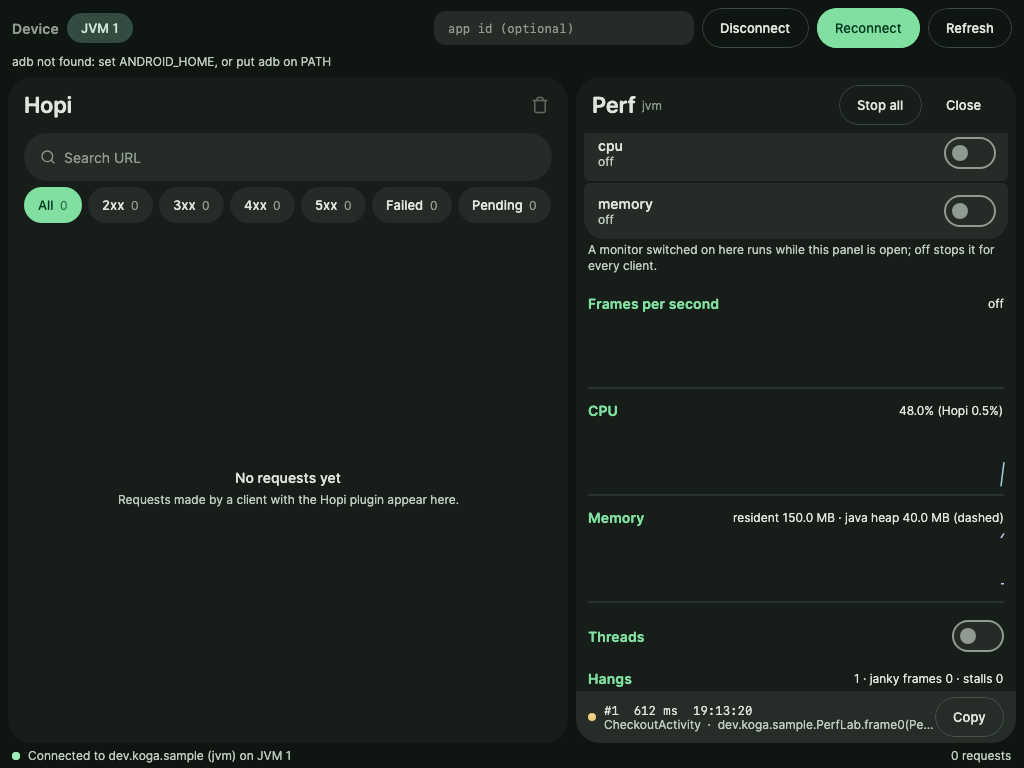
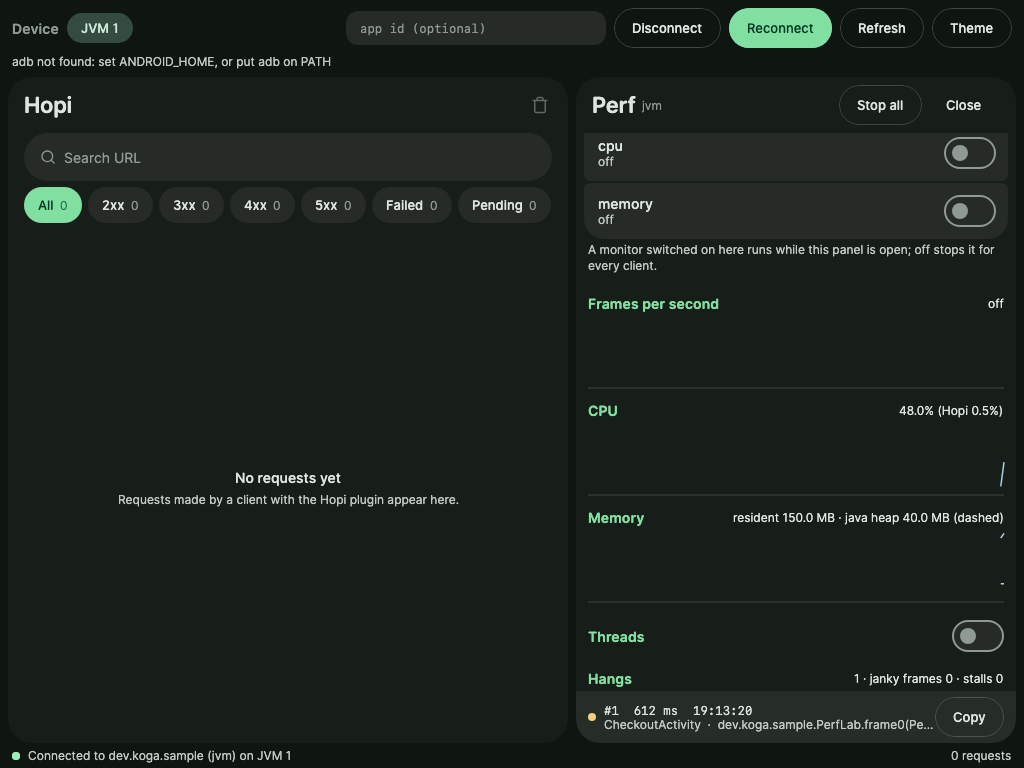
docs: README with today's viewer, whole bodies and the local-only bridge
- New screenshots from the desktop tests: a JSON response in colors, a body
  opened full size with its search (a new ViewerUiTest that takes both), and
  the Rules and Perf panels again.
- Features: the viewer's JSON colors, full-size body and search, theme;
  whole bodies while the viewer is attached; the CLI's agent guardrails
  (captured content is data, --allow-other-origin); local only, every bridge
  connection presenting a per-launch secret.
- "See it": the keys that reach the body viewer and the panels.

Claude-Session: https://claude.ai/code/session_01JN5rq3ZojmoggmPntv5e4y

Changed region(s): [[0.625, 0.0, 0.9688, 0.0625], [0.3438, 0.0312, 0.5625, 0.0625]]

diff --git a/hopi-desktop/src/test/kotlin/dev/koga/hopi/desktop/ViewerUiTest.kt b/hopi-desktop/src/test/kotlin/dev/koga/hopi/desktop/ViewerUiTest.kt
@@ -6,6 +6,9 @@ import androidx.compose.foundation.layout.fillMaxSize
 import androidx.compose.ui.Modifier
 import androidx.compose.ui.graphics.toAwtImage
 import androidx.compose.ui.input.key.Key
+import androidx.compose.ui.test.onNodeWithContentDescription
+import androidx.compose.ui.test.hasContentDescription
+import androidx.compose.ui.test.isRoot
 import androidx.compose.ui.test.ComposeUiTest
 import androidx.compose.ui.test.ExperimentalTestApi
 import androidx.compose.ui.test.KeyInjectionScope
@@ -122,6 +125,30 @@ class ViewerUiTest {
     }
 
     @Test
+    fun aJsonResponseShowsInColorsAndOpensFullSizeWithASearch() = runComposeUiTest {
+        val app = FakeApp(root.resolve("5151")).also { closeables += it }
+        val orders = (1..8).joinToString(",") { n -> """{"id":${1000 + n},"total":${n * 12.5},"status":"${if (n % 3 == 0) "refunded" else "paid"}","gift":${n % 2 == 0}}""" }
+        val json = """{"user":{"id":42,"name":"Ada Lovelace","email":"ada@example.com","verified":true,"roles":["admin","editor"],"manager":null},"orders":[$orders],"next":"/users/42/orders?page=2"}"""
+        app.add { completeTx(it, url = "https://api.example.com/users/42", responseBody = textBody(json)) }
+        viewer()
+        waitForText("JVM 5151")
+        onNodeWithTag(ViewerTags.APP_FIELD).performTextInput(APP)
+        onNodeWithTag(ViewerTags.CONNECT).performClick()
+        waitForText("/users/42")
+        onNodeWithText("/users/42", substring = true).performClick()
+        waitForText("Response")
+        onNodeWithText("Response").performClick()
+        waitForText("Ada Lovelace")
+        screenshot("viewer-response.png")
+
+        onNodeWithContentDescription("Expand body").performClick()
+        waitUntil(timeoutMillis = 15_000) { onAllNodes(hasContentDescription("Search in body")).fetchSemanticsNodes().isNotEmpty() }
+        onNodeWithContentDescription("Search in body").performTextInput("refunded")
+        waitForText("1 of 2")
+        screenshotAll("viewer-body-search.png")
+    }
+
+    @Test
     fun theStatusBarFollowsTheAppStoppingAndStartingAgain() = runComposeUiTest {
         val directory = root.resolve("7")
         val first = FakeApp(directory)
@@ -160,6 +187,16 @@ class ViewerUiTest {
         assertFalse(connected.sameAs(updated.copy(app = "dev.koga.other")))
         assertFalse(connected.sameAs(Target(AndroidDevice("emulator-5556", "device", "Pixel", emptyList()), "dev.koga.sample")))
         assertFalse(connected.sameAs(null))
+    }
+
+    /** [screenshot] with every root drawn over the window's (a dialog is a root of its own). */
+    private fun ComposeUiTest.screenshotAll(name: String) {
+        val directory = System.getProperty("hopi.desktop.screenshots") ?: return
+        val roots = onAllNodes(isRoot()).fetchSemanticsNodes().indices.map { onAllNodes(isRoot())[it].captureToImage().toAwtImage() }
+        val image = java.awt.image.BufferedImage(roots[0].width, roots[0].height, java.awt.image.BufferedImage.TYPE_INT_ARGB)
+        image.createGraphics().apply { roots.forEach { drawImage(it, 0, 0, null) }; dispose() }
+        Files.createDirectories(Paths.get(directory))
+        ImageIO.write(image, "png", Paths.get(directory, name).toFile())
     }
 
     /** Writes the composed window content where the build's test task says (build/reports/screenshots). */

diff --git a/README.md b/README.md
@@ -12,11 +12,11 @@ viewer and a CLI.
 > Hopi is experimental, and it is developed entirely with AI (Claude Code). Its APIs can change
 > between versions, and it is for debug builds only.
 
-![The desktop viewer: the request list as tonal cards, the selected GET and its detail with the Overview, Request and Response tabs](docs/images/viewer.png)
+![The desktop viewer: the request list, and the selected GET's response with its headers (Set-Cookie redacted) and its JSON body in colors](docs/images/viewer.png)
 
-| Rules | Performance |
-| --- | --- |
-| ![The Rules panel: two rules with their switches, Update and Remove](docs/images/rules.png) | ![The Perf panel: the monitors' switches and the frames, CPU and memory charts](docs/images/perf.png) |
+| Full-size body and search | Rules | Performance |
+| --- | --- | --- |
+| ![A JSON body opened over the whole window, with a search marking its first of two matches](docs/images/body-search.png) | ![The Rules panel: two rules with their switches, Update and Remove](docs/images/rules.png) | ![The Perf panel: the monitors' switches and the frames, CPU and memory charts](docs/images/perf.png) |
 
 ## Features
 
@@ -27,16 +27,24 @@ viewer and a CLI.
   or the response, in the app's memory for the session only and never weakening its TLS or pinning.
 - **Performance monitors**: frames, hangs with the main thread's stack, CPU and memory, each off
   until started.
-- **Desktop viewer** (Compose Desktop, macOS first): requests and their detail side by side, Rules
-  and Perf panels, cURL, HAR and NDJSON export.
+- **Desktop viewer** (Compose Desktop, macOS first): requests and their detail side by side, JSON
+  bodies in colors, any body opened full size with a search, Rules and Perf panels, cURL, HAR and
+  NDJSON export, and a choice of accent color and light or dark.
+- **Whole bodies, as a proxy shows them**: while the viewer is attached the app keeps bodies whole
+  (up to an eighth of its heap) and the viewer fetches each one as its request ends; the app then
+  cuts its own copy back to its cap (256 KB), so its memory stays where it was.
 - **CLI**, `hopi`: list, tail, get, cURL, rules and monitors from a terminal; its `--json` output is
-  a stable contract for AI coding agents.
+  a stable contract for AI coding agents, which treat captured content as data, and a rule that
+  sends requests to another host needs `--allow-other-origin`, which an agent adds only once its
+  user agreed.
 - **Log stream**: one NDJSON line per request in logcat or the iOS unified log, with no setup.
 - **Redaction** on every channel, on by default: credential headers (`Authorization`, `Cookie`,
   `X-Api-Key`…), token query parameters (`access_token`, `code`, `key`, presigned-URL
   signatures…) in the query and the fragment, URL userinfo, URLs in `Location`/`Referer` and
   error text, and secret fields of JSON and form bodies (`accessToken`, `password`…); plus the
   headers and parameters you name. `unsafeDisableRedaction()` turns it off.
+- **Local only**: Hopi sends nothing anywhere. The bridge listens on the device alone (a loopback
+  port or an Android local socket) and every connection must present a per-launch secret.
 
 ## Quick start
 
@@ -156,7 +164,9 @@ debug build over its device-local bridge, which is on by default and authenticat
 connection. Today they run from a clone of this repository; a packaged distribution is planned.
 
 The desktop viewer: run it, or build a `.dmg` (unsigned, about 65 MB with its own Java runtime).
-Pick a device, enter the app's id, and connect.
+Pick a device, enter the app's id (on Android the apps with a bridge are offered), and connect.
+Select a request with ↓ / ↑; the ⤢ button by a body opens it full size, where Enter steps through
+the search's matches. ⌘L opens the Rules panel, ⌘P the Perf panel, ⌘E exports HAR.
 
 ```bash
 ./gradlew :hopi-desktop:run
